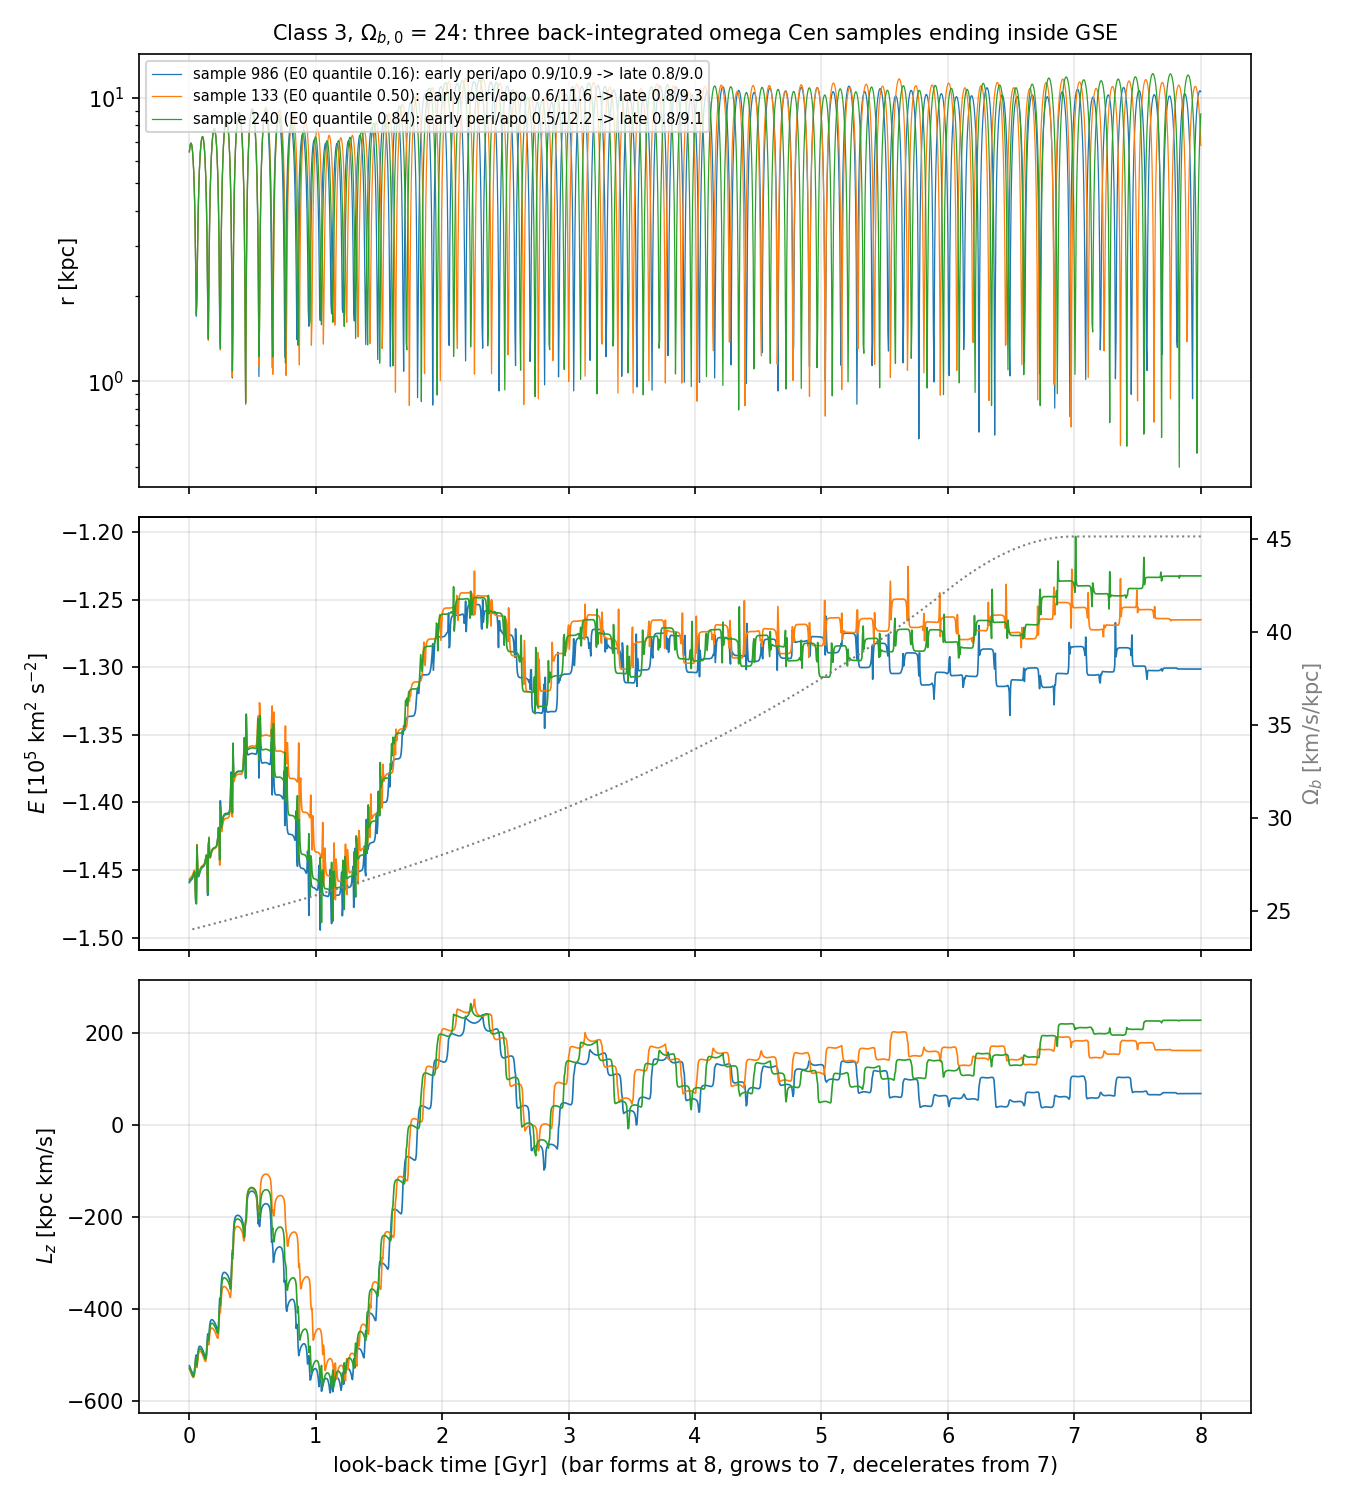
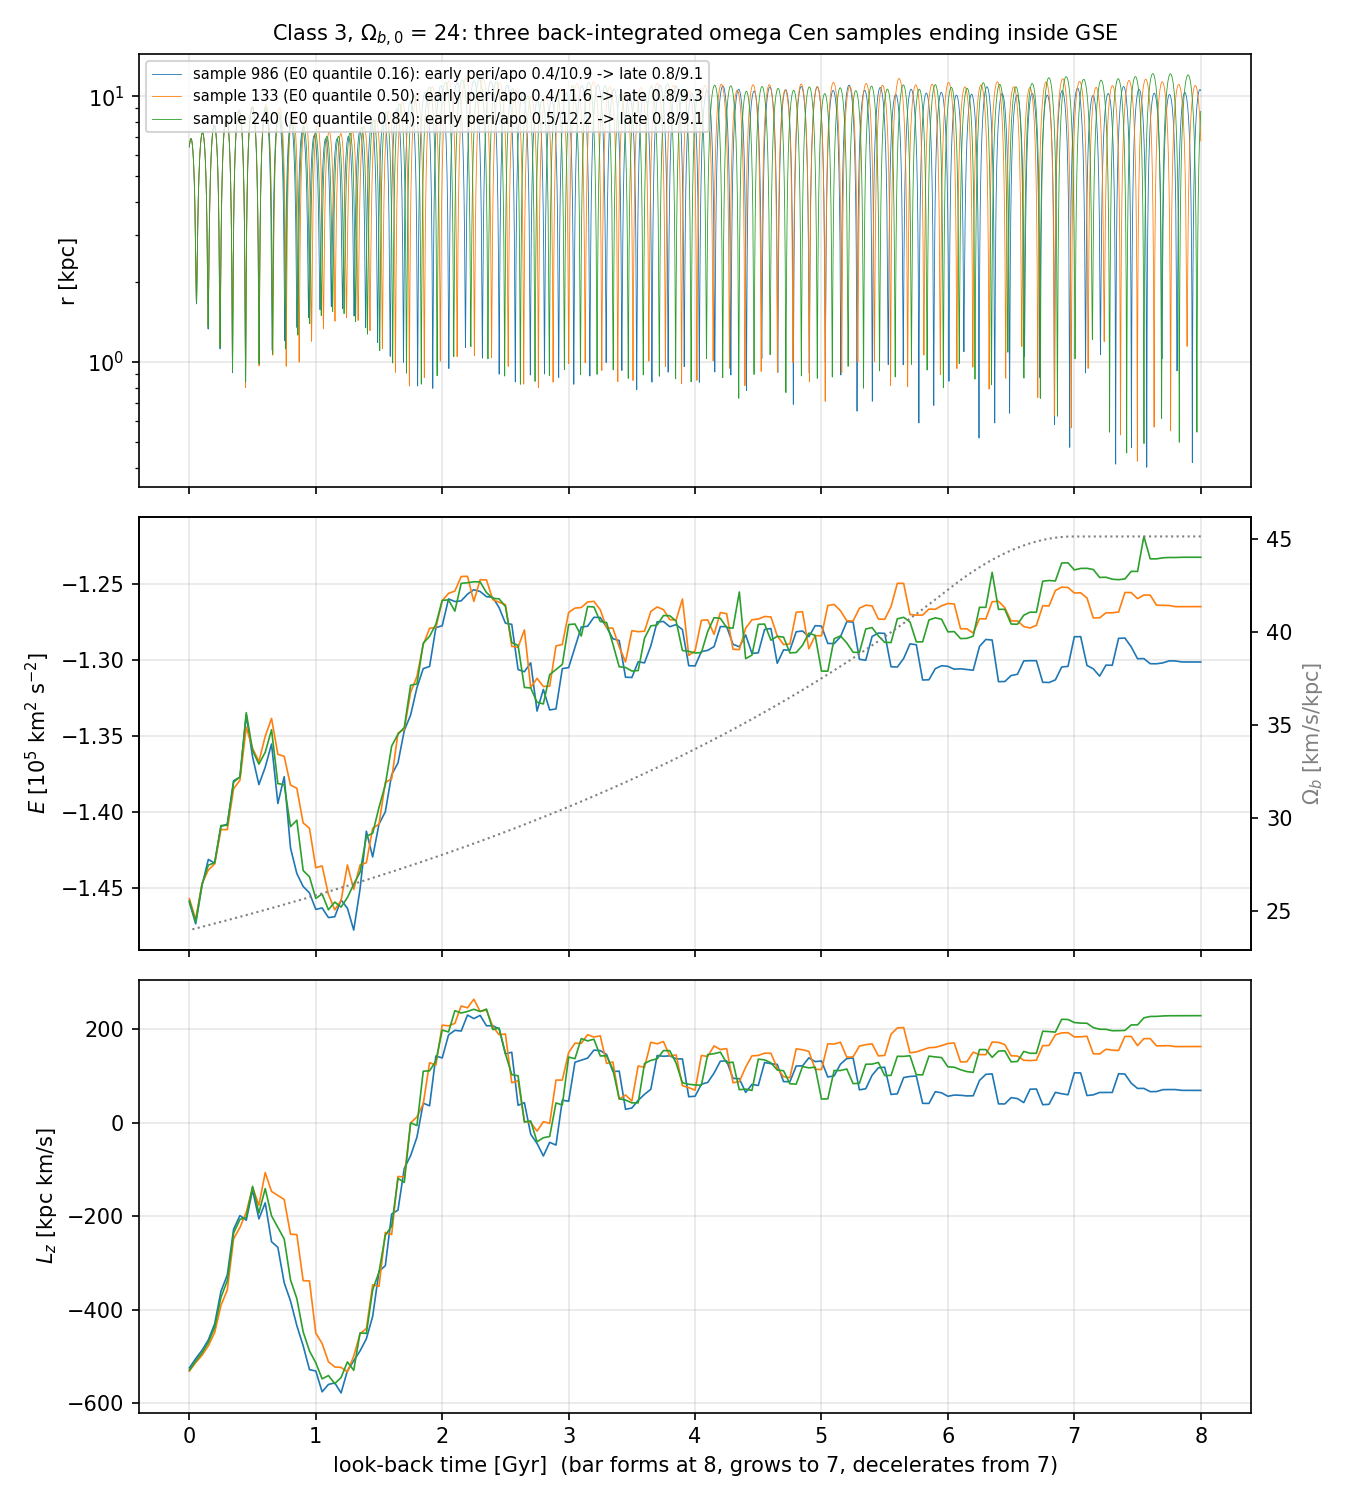
Class 3: resolve pericentres with a fine re-integration of the picked samples; fix test

diff --git a/src/ocen_dm/tails/bar_migration.py b/src/ocen_dm/tails/bar_migration.py
@@ -175,6 +175,7 @@ class MigrationRun:
     E: np.ndarray                 # (n_times, n_samples) in the axisymmetric potential
     Lz: np.ndarray
     inside_t0: np.ndarray         # bool per sample: inside outer GSE contour at t = 0
+    ic: np.ndarray = None         # (n_samples, 6) present-day initial conditions (bar frame)
 
     @property
     def frac_inside(self) -> float:
@@ -196,7 +197,17 @@ def back_integrate(omega_f: float, n_samples: int = 1000, seed: int = 42, n_time
         E[j], Lz[j] = energy_lz(traj[j], pot_axi)
     cont = gse_contours(pot_axi)
     inside = inside_gse(E[0], Lz[0], cont, level=0)
-    return MigrationRun(omega_f, hist, t, traj, E, Lz, inside)
+    return MigrationRun(omega_f, hist, t, traj, E, Lz, inside, ic)
+
+
+def refine_trajectory(run: MigrationRun, i: int, n_times: int = 32001):
+    """Re-integrate sample ``i`` alone with fine output (0.25 Myr for tf = 8 Gyr), so that
+    pericentre passages (~1 Myr long at 0.5 kpc) are resolved. Returns (t ascending, traj)."""
+    agama = _agama()
+    pot, _ = slowing_bar_potential(run.hist)
+    t, tr = agama.orbit(ic=run.ic[i], potential=pot, timestart=run.hist.tf, time=-run.hist.tf, trajsize=n_times)
+    order = np.argsort(t)
+    return np.asarray(t)[order], np.asarray(tr)[order]
 
 
 # ----------------------------------------------------------------------------- grid, picks, products
@@ -218,9 +229,10 @@ def orbit_elements(traj_1, t, t_lo, t_hi):
                 z_max=float(np.abs(traj_1[m, 2]).max()))
 
 
-def pick_class3(run: MigrationRun, quantiles=(0.16, 0.5, 0.84)):
+def pick_class3(run: MigrationRun, quantiles=(0.16, 0.5, 0.84), refine: bool = True):
     """Among samples inside the GSE contour at t = 0, the ones at the given quantiles of E(t=0).
-    Returns list of (sample index, elements at 0-1 Gyr, elements at 7-8 Gyr, E0, Lz0)."""
+    Returns list of dicts (sample index, fine trajectory, elements at 0-1 Gyr and in the last
+    Gyr, E0, Lz0). Elements come from a 0.25-Myr re-integration when ``refine`` is set."""
     idx = np.flatnonzero(run.inside_t0)
     if idx.size == 0:
         return []
@@ -229,9 +241,10 @@ def pick_class3(run: MigrationRun, quantiles=(0.16, 0.5, 0.84)):
     for q in quantiles:
         target = np.quantile(E0, q)
         i = idx[np.argmin(np.abs(E0 - target))]
-        picks.append(dict(sample=int(i), q=q, E0=float(run.E[0, i]), Lz0=float(run.Lz[0, i]),
-                          early=orbit_elements(run.traj[:, i], run.t, 0.0, 1.0),
-                          late=orbit_elements(run.traj[:, i], run.t, run.hist.tf - 1.0, run.hist.tf)))
+        t, tr = refine_trajectory(run, i) if refine else (run.t, run.traj[:, i])
+        picks.append(dict(sample=int(i), q=q, E0=float(run.E[0, i]), Lz0=float(run.Lz[0, i]), t=t, traj=tr,
+                          early=orbit_elements(tr, t, 0.0, 1.0),
+                          late=orbit_elements(tr, t, run.hist.tf - 1.0, run.hist.tf)))
     return picks
 
 
@@ -244,7 +257,7 @@ def build_products(out_dir: Path = Path("results/tails"), plot_dir: Path = Path(
     runs = run_grid(omegas, n_samples=n_samples, seed=seed, n_times=161)
     pot_axi = axisymmetric_potential()
     cont = gse_contours(pot_axi)
-    fid = back_integrate(OMEGA_FIDUCIAL, n_samples=n_samples, seed=seed, n_times=1601)
+    fid = back_integrate(OMEGA_FIDUCIAL, n_samples=n_samples, seed=seed, n_times=161)
     picks = pick_class3(fid)
     E_now, Lz_now = energy_lz(present_day_samples(1), pot_axi)
 
@@ -290,10 +303,10 @@ def build_products(out_dir: Path = Path("results/tails"), plot_dir: Path = Path(
     fig, axes = plt.subplots(3, 1, figsize=(9, 10), sharex=True)
     lb = fid.hist.tf - fid.t     # look-back time
     for p in picks:
-        i = p["sample"]; r = np.linalg.norm(fid.traj[:, i, :3], axis=1)
+        i = p["sample"]; r = np.linalg.norm(p["traj"][:, :3], axis=1); lbp = fid.hist.tf - p["t"]
         lab = "sample %d (E0 quantile %.2f): early peri/apo %.1f/%.1f -> late %.1f/%.1f" % (
             i, p["q"], p["early"]["r_peri"], p["early"]["r_apo"], p["late"]["r_peri"], p["late"]["r_apo"])
-        axes[0].plot(lb, r, lw=0.6, label=lab)
+        axes[0].plot(lbp, r, lw=0.4, label=lab)
         axes[1].plot(lb, fid.E[:, i] / 1e5, lw=0.8)
         axes[2].plot(lb, fid.Lz[:, i], lw=0.8)
     axes[0].set_yscale("log"); axes[0].set_ylabel("r [kpc]"); axes[0].legend(fontsize=7, loc="upper left")

diff --git a/src/ocen_dm/tails/progenitor_orbits.py b/src/ocen_dm/tails/progenitor_orbits.py
@@ -338,7 +338,7 @@ def class3_gse_debris_orbit(r_apo_kpc: float, lz_kpc_kms: float, incl_deg: float
 
 
 def class3_bar_migration_orbits(omega_b: float = CLASS3_OMEGA_B, n_samples: int = 1000,
-                                seed: int = 42, n_times: int = 1601) -> list:
+                                seed: int = 42, n_times: int = 161) -> list:
     """Class 3 done properly: omega Cen's phase-space samples integrated back 8 Gyr through the
     growing, decelerating bar of Dillamore et al. (2026); the three samples at the 16/50/84th
     percentiles of E(t=0) among those ending inside the GSE debris contours. Time axis of the
@@ -346,9 +346,9 @@ def class3_bar_migration_orbits(omega_b: float = CLASS3_OMEGA_B, n_samples: int 
     from . import bar_migration as bm
     run = bm.back_integrate(omega_b, n_samples=n_samples, seed=seed, n_times=n_times)
     out = []
-    for p in bm.pick_class3(run):
-        i = p["sample"]; X = run.traj[:, i, :3]; V = run.traj[:, i, 3:]
-        lb = run.t - run.hist.tf                       # 0 today, -8 at bar formation
+    for p in bm.pick_class3(run):                      # fine (0.25 Myr) re-integration of each pick
+        i = p["sample"]; X = p["traj"][:, :3]; V = p["traj"][:, 3:]
+        lb = p["t"] - run.hist.tf                      # 0 today, -8 at bar formation
         R = np.hypot(X[:, 0], X[:, 1]); phi = np.arctan2(X[:, 1], X[:, 0])
         vR = V[:, 0] * np.cos(phi) + V[:, 1] * np.sin(phi)
         vT = -V[:, 0] * np.sin(phi) + V[:, 1] * np.cos(phi)     # oCen_bar frame: disc L_z > 0

diff --git a/tests/test_progenitor_orbits.py b/tests/test_progenitor_orbits.py
@@ -55,7 +55,7 @@ def test_class3_bar_migration_orbits_are_gse_like_before_migration():
     bm = pytest.importorskip("ocen_dm.tails.bar_migration")
     if not bm.POT_DIR.exists():
         pytest.skip("oCen_bar clone not found")
-    orbs = po.class3_bar_migration_orbits(n_samples=200, n_times=401)
+    orbs = po.class3_bar_migration_orbits(n_samples=200, n_times=41)
     assert len(orbs) == 3
     for o in orbs:
         assert abs(o.t_gyr[0]) < 1e-9 and abs(o.t_gyr[-1] + 8.0) < 1e-9      # look-back axis, 0 today first

diff --git a/docs/PROGENITOR_ORBITS.md b/docs/PROGENITOR_ORBITS.md
@@ -147,12 +147,14 @@ Dillamore, Zhang & Belokurov 2026 (arXiv:2606.12516), following the authors' own
 
 | sample | E(t=0) [10⁵] | L_z(t=0) | pre-migration (7–8 Gyr ago) peri / apo / e / z_max | last Gyr peri / apo |
 |---|---|---|---|---|
-| 986 | −1.301 | +69 | 0.87 / 10.9 / 0.85 / 4.8 | 0.84 / 9.0 |
-| 133 | −1.265 | +163 | 0.60 / 11.6 / 0.90 / 4.9 | 0.83 / 9.3 |
-| 240 | −1.233 | +229 | 0.50 / 12.2 / 0.92 / 5.2 | 0.84 / 9.1 |
+| 986 | −1.301 | +69 | 0.40 / 10.9 / 0.93 / 4.8 | 0.84 / 9.1 |
+| 133 | −1.265 | +163 | 0.42 / 11.6 / 0.93 / 4.9 | 0.80 / 9.3 |
+| 240 | −1.233 | +229 | 0.45 / 12.2 / 0.93 / 5.2 | 0.84 / 9.1 |
 
-(L_z prograde-positive.) The pre-migration orbit is a **most-bound GSE-debris orbit**: apocentre
-11–12 kpc, pericentre 0.5–0.9 kpc, slightly prograde to zero L_z — not retrograde. The earlier
+(L_z prograde-positive; elements from a 0.25-Myr re-integration of each picked sample — the
+20-Myr grid cadence overestimates pericentres by up to a factor 2.) The pre-migration orbit is a
+**most-bound GSE-debris orbit**: apocentre 11–12 kpc, pericentre 0.4–0.45 kpc, e = 0.93,
+slightly prograde to zero L_z — not retrograde. The earlier
 static guess (L_z = −300) was wrong in sign and is kept only as `class3_gse_debris_orbit`.
 
 ### What is still not modelled
@@ -173,7 +175,7 @@ static guess (L_z = −300) was wrong in sign and is kept only as `class3_gse_de
 |---|---|---|---|
 | class 1 | today's | today's | 1.3–2.0 kpc |
 | class 2 | wider, apo 10–20 kpc at 5 Gyr, infall from R_vir | today's | 1.6–2.9 kpc early |
-| class 3 | most-bound GSE debris, apo 11–12 kpc, L_z ≈ 0 to +230, until ~2.5 Gyr ago | today's, reached by bar migration in the last ~2.5 Gyr | 0.5–0.9 kpc |
+| class 3 | most-bound GSE debris, apo 11–12 kpc, L_z ≈ 0 to +230, until ~2.5 Gyr ago | today's, reached by bar migration in the last ~2.5 Gyr | 0.4–0.45 kpc (0.8 in the barred potential today) |
 
 ## Caveats
 
